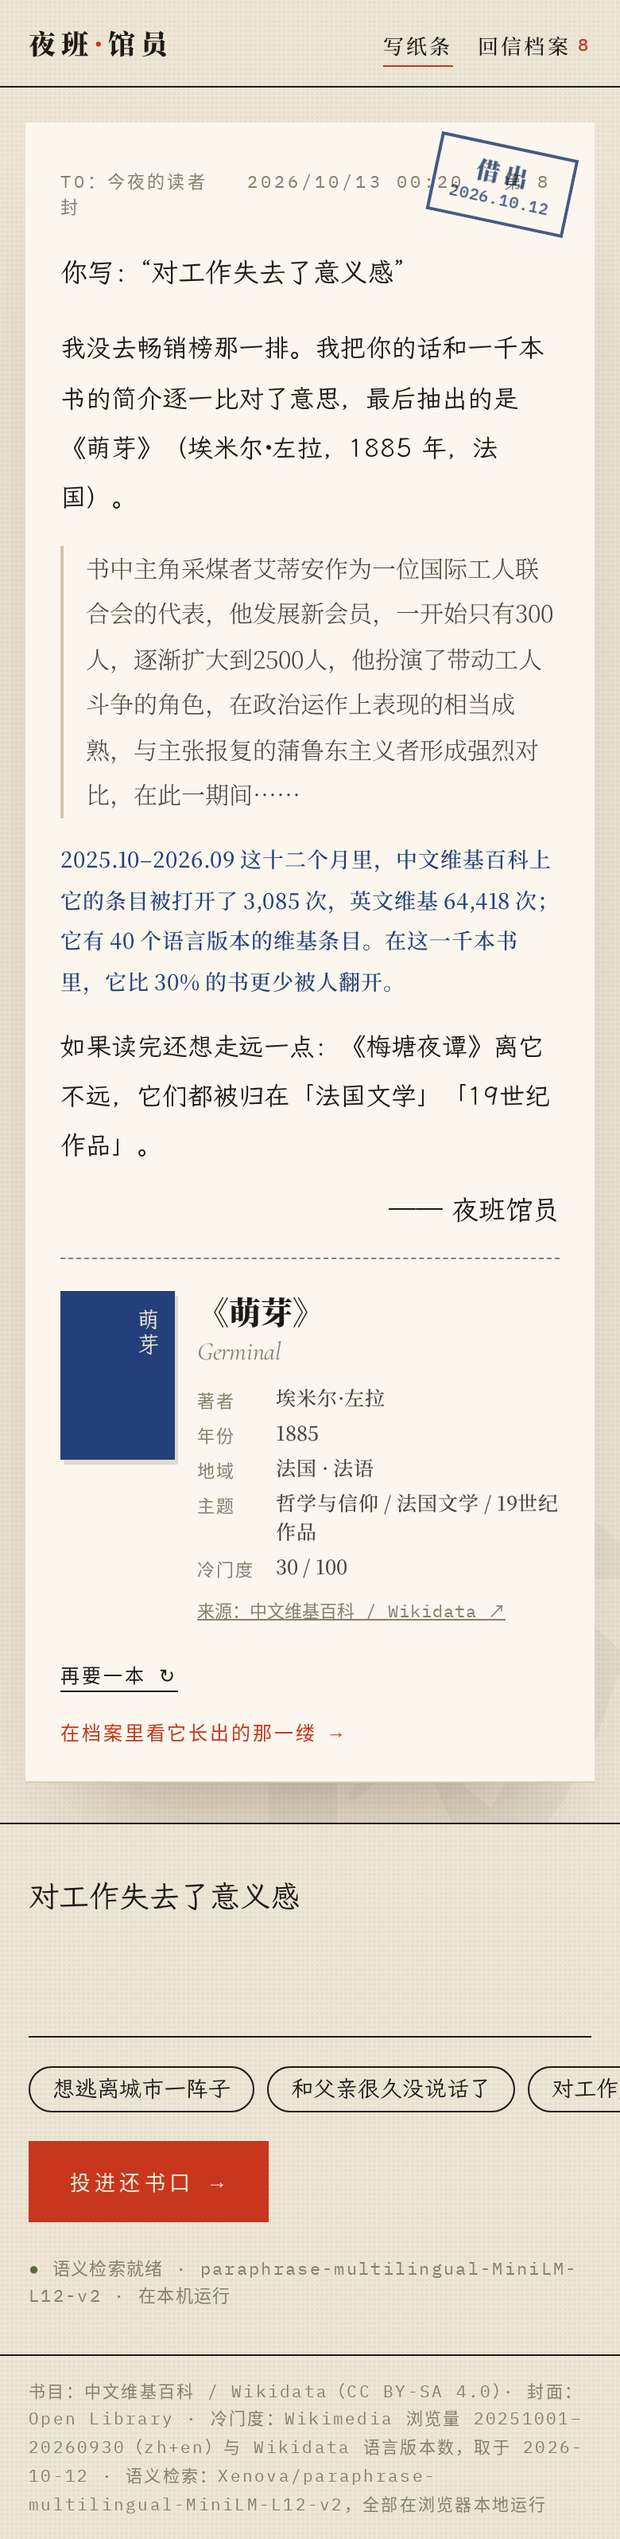
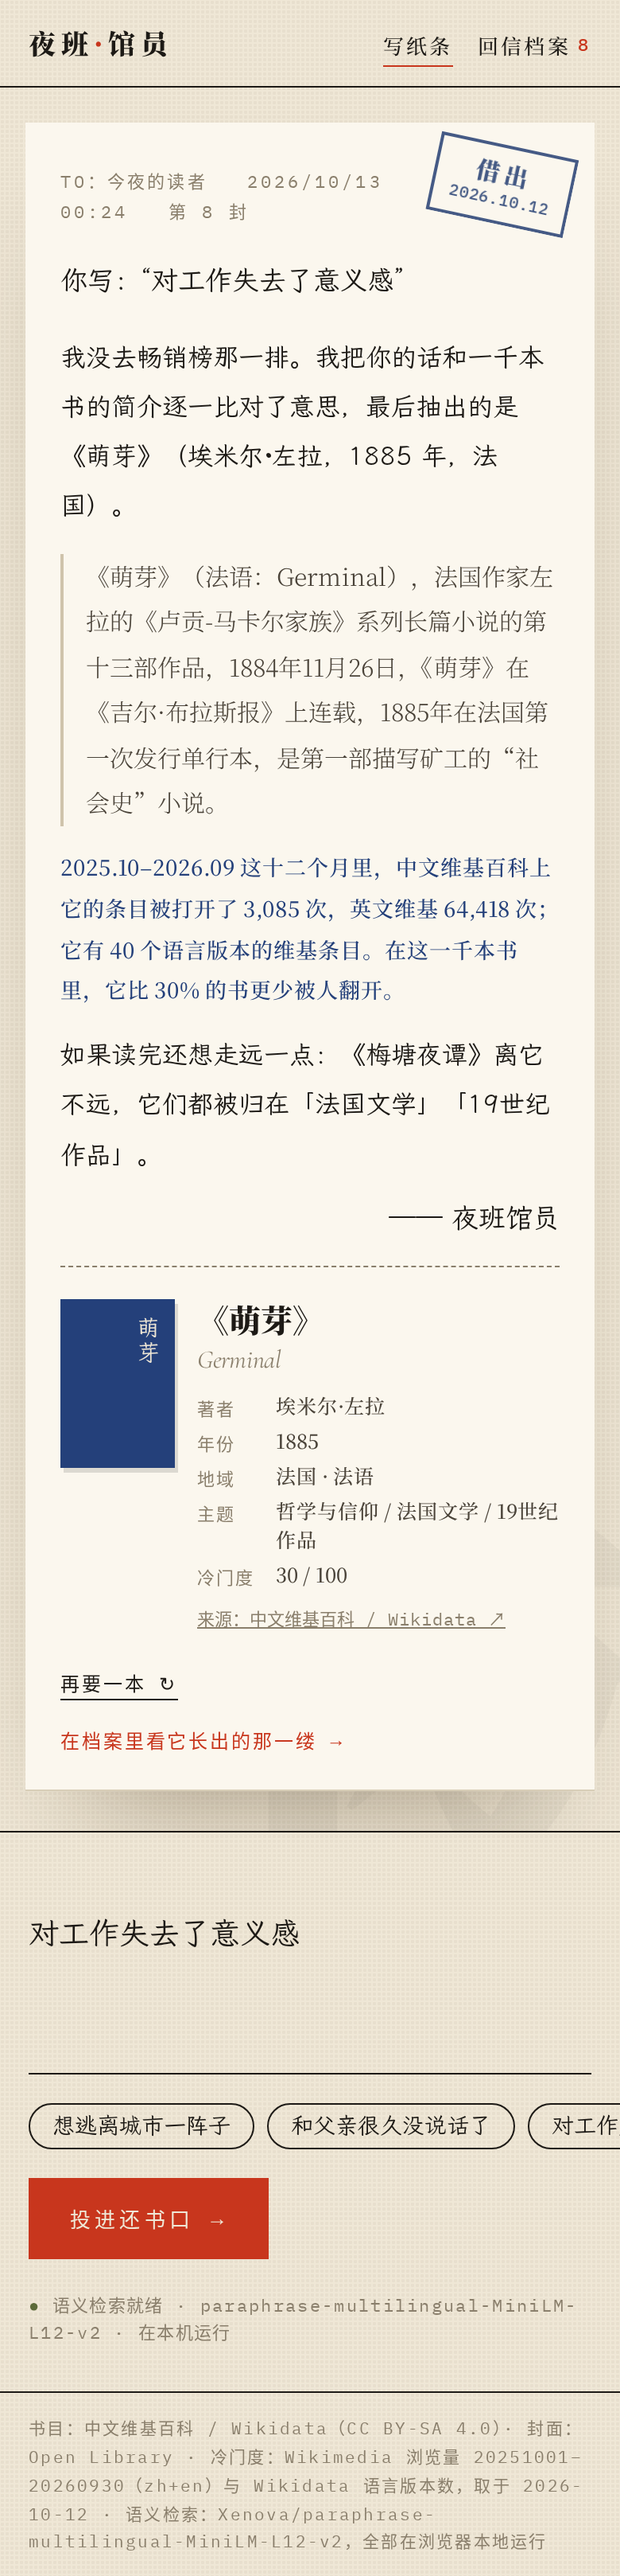
Mobile: keep letter header clear of stamp; add screenshots + shoot script

diff --git a/src/style.css b/src/style.css
@@ -102,7 +102,7 @@ transform:rotate(12deg) scale(2.4);opacity:0;mix-blend-mode:multiply;pointer-eve
 .compose{border-right:0;padding:24px 18px 30px;gap:16px}.compose .kicker,.compose h1,.compose .lede{display:none}
 .chips{flex-wrap:nowrap;overflow-x:auto;margin:0 -18px;padding:0 18px;scrollbar-width:none}.chip{flex:none}
 textarea{font-size:19px}
-.letter{padding:28px 22px 22px;transform:none}.body p{font-size:16px}.body p:first-child{font-size:17px}
+.letter{padding:28px 22px 22px;transform:none}.letter .to{padding-right:84px;line-height:1.7}.body p{font-size:16px}.body p:first-child{font-size:17px}
 .card{grid-template-columns:72px minmax(0,1fr);gap:14px}.cover{width:72px;height:106px}.card h3{font-size:20px}
 .stamp{right:14px;top:14px;transform:rotate(12deg) scale(2)}
 .actions{flex-direction:column;align-items:flex-start}
